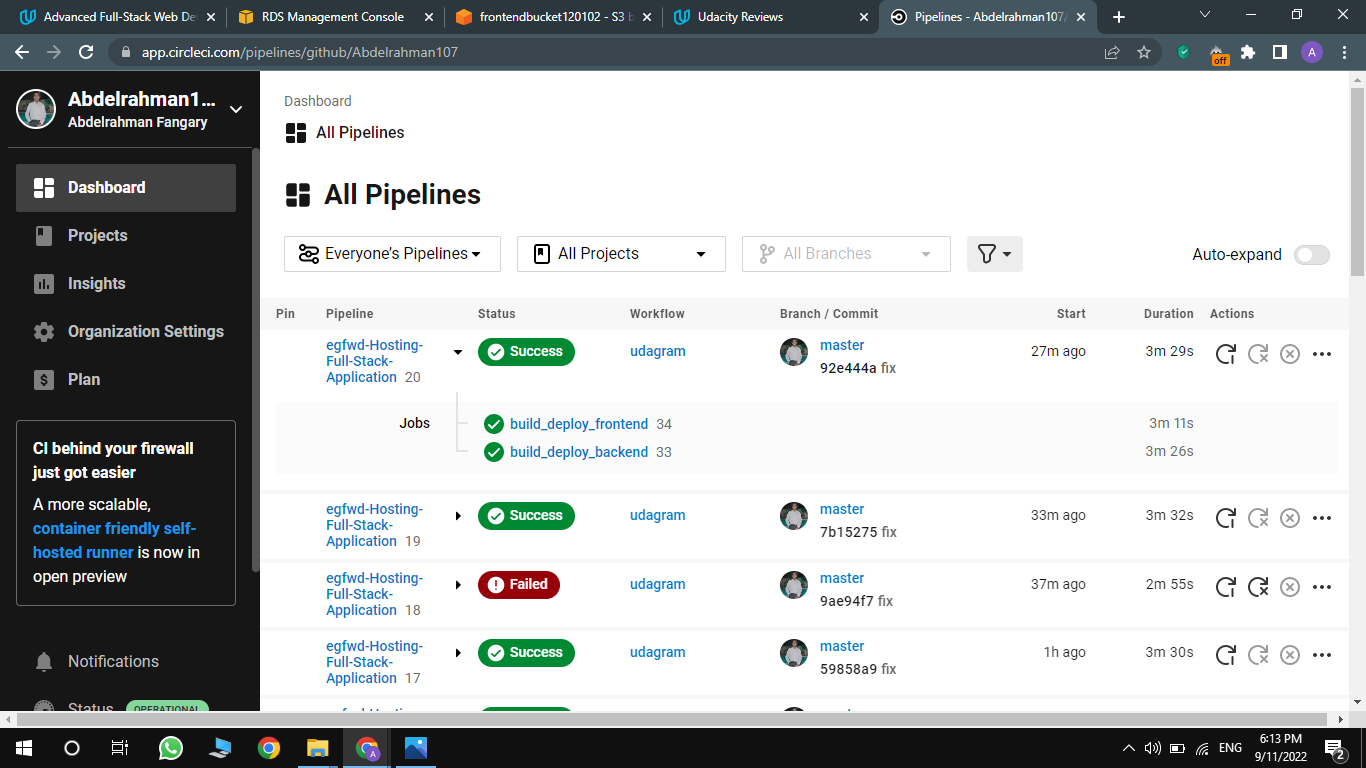
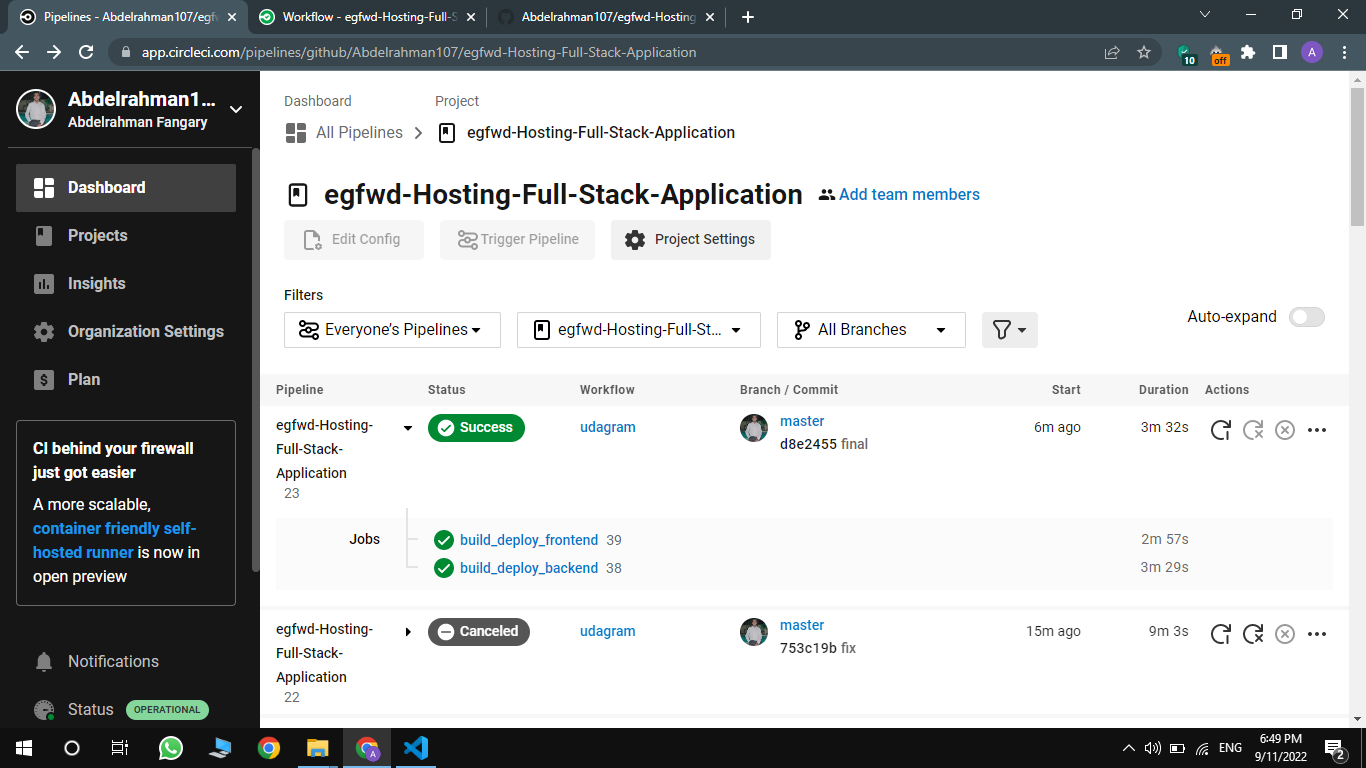
Version: Final Update

diff --git a/README.md b/README.md
@@ -1,6 +1,18 @@
 # Hosting a Full-Stack Application
 
-### **You can use you own project completed in previous courses or use the provided Udagram app for completing this final project.**
+- Live Frontend version: http://frontendbucket120102.s3-website-us-east-1.amazonaws.com deployed on S3
+- Live Backend version: http://udagram-api-dev2222222.us-east-1.elasticbeanstalk.com deployed on Elastic Beanstalk
+
+
+# Architecture
+![Architectural diagram](./screenshots/Architectural_diagram.jpeg "Architectural diagram")
+
+# CircleCI Pipeline
+<img src="./screenshots/pipeline.jpeg" width="500" height="300">
+
+## Description:
+
+In this project, It's required to host a full stack application using AWS services. The front-end is a React application that is hosted on S3 and the back-end is a Node-Express application that is hosted on Elastic Beanstalk. The server is connected to a PostgreSQL database hosted on RDS. It's required to automate the process of building and deploying the application using a CI/CD pipeline on CircleCI.This project is submitted for Advanced Full-Stack Web Development Nanodegree by udacity.
 
 ---
 
@@ -39,7 +51,8 @@ Provision the necessary AWS services needed for running the application:
 
 1. In AWS, provision a publicly available RDS database running Postgres. <Place holder for link to classroom article>
 1. In AWS, provision a s3 bucket for hosting the uploaded files. <Place holder for tlink to classroom article>
-1. Export the ENV variables needed or use a package like [dotnev](https://www.npmjs.com/package/dotenv)/.
+1. Export the ENV variables needed or use a package like [dotnev](https://www.npmjs.com/package/dotenv)/ 
+
 1. From the root of the repo, navigate udagram-api folder `cd starter/udagram-api` to install the node_modules `npm install`. After installation is done start the api in dev mode with `npm run dev`.
 1. Without closing the terminal in step 1, navigate to the udagram-frontend `cd starter/udagram-frontend` to intall the node_modules `npm install`. After installation is done start the api in dev mode with `npm run start`.
 
@@ -67,6 +80,11 @@ The e2e tests are using Protractor and Jasmine.
 - [Node](https://nodejs.org) - Javascript Runtime
 - [Express](https://expressjs.com/) - Javascript API Framework
 
+##Technologies and Tools Used
+- AWS(S3, RDS, Elastic Beanstalk)
+- CircleCI
+
 ## License
 
 [License](LICENSE.txt)
+

diff --git a/documentation/AppDependencies.md b/documentation/AppDependencies.md
@@ -1,0 +1,24 @@
+- Node v14.15.1 (LTS) or more recent. While older versions can work it is advisable to keep node to latest LTS version
+
+- npm 6.14.8 (LTS) or more recent, Yarn can work but was not tested for this project
+
+- AWS CLI v2, v1 can work but was not tested for this project
+
+- A RDS database running Postgres.
+
+- A S3 bucket for hosting frontend.
+
+- An Elastic beanstalk environment for api deployment.
+
+- CircleCI for continuous integration.
+
+- Bcryptjs for password hashing.
+
+- Jsonwebtoken for authentication.
+
+- Angular v8 for frontend.
+
+- Express for backend.
+
+- Sequelize for ORM.
+

diff --git a/documentation/Infrastructure.md b/documentation/Infrastructure.md
@@ -1,0 +1,17 @@
+# AWS infrastrucure
+
+- AWS S3 for hosting frontend
+- AWS RDS postgres for database
+- AWS Elastic Beanstalk for api deployment
+- CircleCI for continuous integration and deployment
+
+## Architecture diagram
+
+![Architectural diagram](../screenshots/Architectural_diagram.jpeg "Architectural diagram")
+
+## Description
+
+- The cliens send request to the frontend which is hosted on S3
+- The frontend send request to the api which is hosted on Elastic Beanstalk
+- The api send request to the database which is hosted on RDS
+- the responses are sent back to the client.

diff --git a/documentation/Pipeline.md b/documentation/Pipeline.md
@@ -1,0 +1,11 @@
+## Circleci Pipeline
+
+- The pipeline consists of 2 jobs:
+    - build_deploy_frontend
+    - build_deploy_backend
+
+- Both jobs are triggered when a commit is pushed to the master branch.
+- The jobs are run in parallel.    
+
+![Pipeline](../screenshots/pipeline.jpeg "Pipeline")
+![Circleci](../screenshots/CI_2.png "Circleci")
